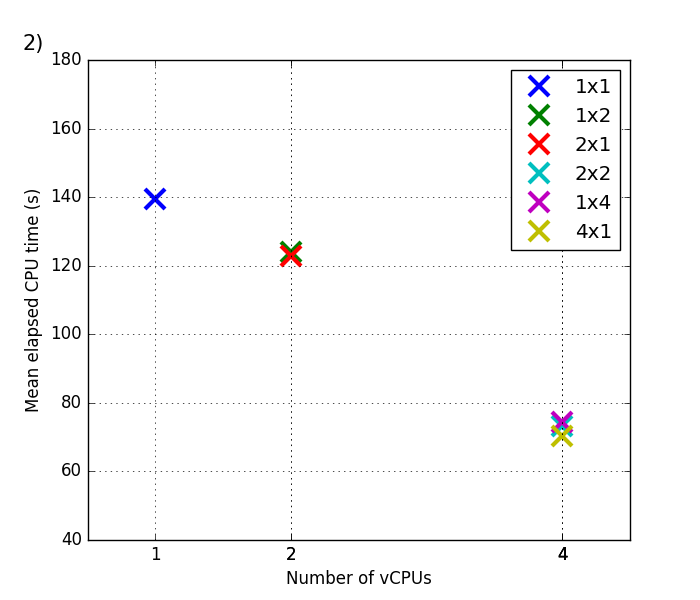
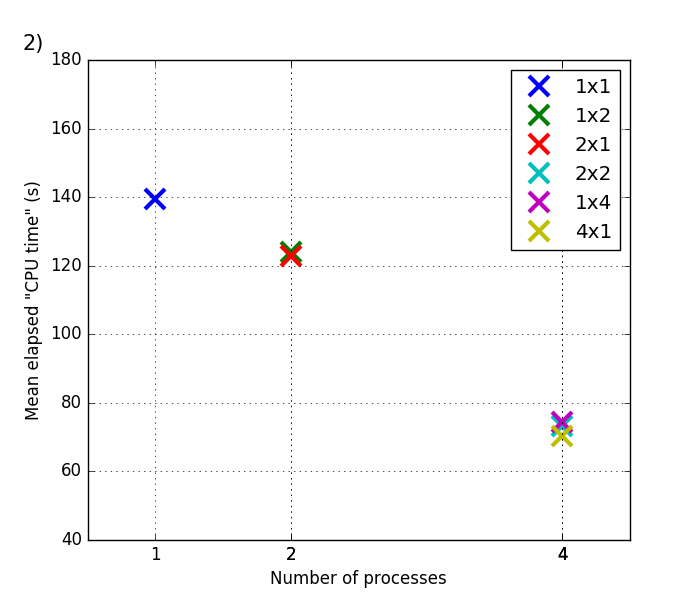
vcpu -> process

Changed region(s): [[0.39, 0.93, 0.63, 0.99], [0.03, 0.3, 0.06, 0.72]]

diff --git a/postprocess/scaling.py b/postprocess/scaling.py
@@ -10,20 +10,20 @@ matplotlib.use('Agg')
 import matplotlib.pyplot as plt
 
 
-# START = 1
-# STOP = 6
-# FIGNO = 1
-# FIGNAME = 'figures/met_t2micro.png'
+START = 1
+STOP = 6
+FIGNO = 1
+FIGNAME = 'figures/met_t2micro.png'
 
-START = 7
-STOP = 12
-FIGNO = 2
-FIGNAME = 'figures/met_c4large.png'
+# START = 7
+# STOP = 12
+# FIGNO = 2
+# FIGNAME = 'figures/met_c4large.png'
 
 # mean elapsed time
 met = np.zeros(STOP-START+1)
-# number of vcpus
-nvcpu = np.zeros(STOP-START+1, dtype=int)
+# number of procs
+nproc = np.zeros(STOP-START+1, dtype=int)
 ntilei = np.zeros(STOP-START+1, dtype=int)
 ntilej = np.zeros(STOP-START+1, dtype=int)
 
@@ -50,7 +50,7 @@ for ii in range(START, STOP+1):
     os.system(cmdstr % (ii, ii))
     a = readarray('.tmp')
     met[jj-1] = np.mean(a)
-    nvcpu[jj-1] = a.size
+    nproc[jj-1] = a.size
 
 
 myx = 'x'*(STOP-START+1)
@@ -61,15 +61,15 @@ print(labels)
 fig = plt.figure(figsize=(7, 6))
 ax = fig.add_subplot(111)
 ax.xaxis.set_major_formatter(matplotlib.ticker.FormatStrFormatter('%d'))
-# ax.plot(nvcpu, met)
-for i, j in zip(nvcpu, met):
+# ax.plot(nproc, met)
+for i, j in zip(nproc, met):
     ax.plot(i, j, 'x', markersize=15, markeredgewidth=3)
 ax.legend(labels, numpoints=1)
 ax.text(-0.12, 1.02, str(FIGNO)+')', fontsize=15, transform=ax.transAxes)
-plt.xticks(nvcpu)
-plt.xlim(np.min(nvcpu)-0.5, np.max(nvcpu)+0.5)
+plt.xticks(nproc)
+plt.xlim(np.min(nproc)-0.5, np.max(nproc)+0.5)
 plt.ylim(40, 180)
-plt.xlabel('Number of vCPUs')
-plt.ylabel('Mean elapsed CPU time (s)')
+plt.xlabel('Number of processes')
+plt.ylabel('Mean elapsed "CPU time" (s)')
 plt.grid()
 fig.savefig(FIGNAME)

diff --git a/README.md b/README.md
@@ -8,11 +8,11 @@ All results shown were produced with ROMS, compiled with Open MPI using gfortran
 
 <img src="postprocess/figures/met_t2micro.png" width="50%">
 
-Figure 1: CPU time per vCPU for the ROMS "small" benchmark test (benchmark1.in), as function of the number of vCPUs. Computations are performed on t2.micro instances of AWS, which have one vCPU per node (as of 2016/11/01). Each data point shows the average over all vCPUs, measured from one single experiment. The inset shows the domain partition (tiling) of the 512x64 point domain. The result suggests that partitioning along the first dimension yields better performance, and that the problem scales nonlinearly.
+Figure 1: Time (in seconds) spent per process for the ROMS "small" benchmark test (benchmark1.in), as function of the number of processes. Computations are performed on t2.micro instances of AWS, which have one vCPU per (virtual) node (as of 2016/11/01). Each data point shows the average over all processes, measured from one single experiment. The inset shows the domain partition (tiling) of the 512x64 point domain. The result suggests that partitioning along the first dimension yields better performance, and that the problem scales nonlinearly.
 
 <img src="postprocess/figures/met_c4large.png" width="50%">
 
-Figure 2: Same as Fig. 1, but computations are performed on c4.large instances of AWS, which have 2 vCPUs per node. In the case of c4 instances, a vCPU is defined as a single thread of a custom 2.9 GHz Intel Xeon E5-2666 v3 (Haswell) processor (2016/11/01).
+Figure 2: Same as Fig. 1, but computations are performed on c4.large instances of AWS, which have 2 vCPUs per (virtual) node. In the case of c4 instances, a vCPU is defined as a single thread of a custom 2.9 GHz Intel Xeon E5-2666 v3 (Haswell) processor (2016/11/01).
 
 ### Why AWS?
 
